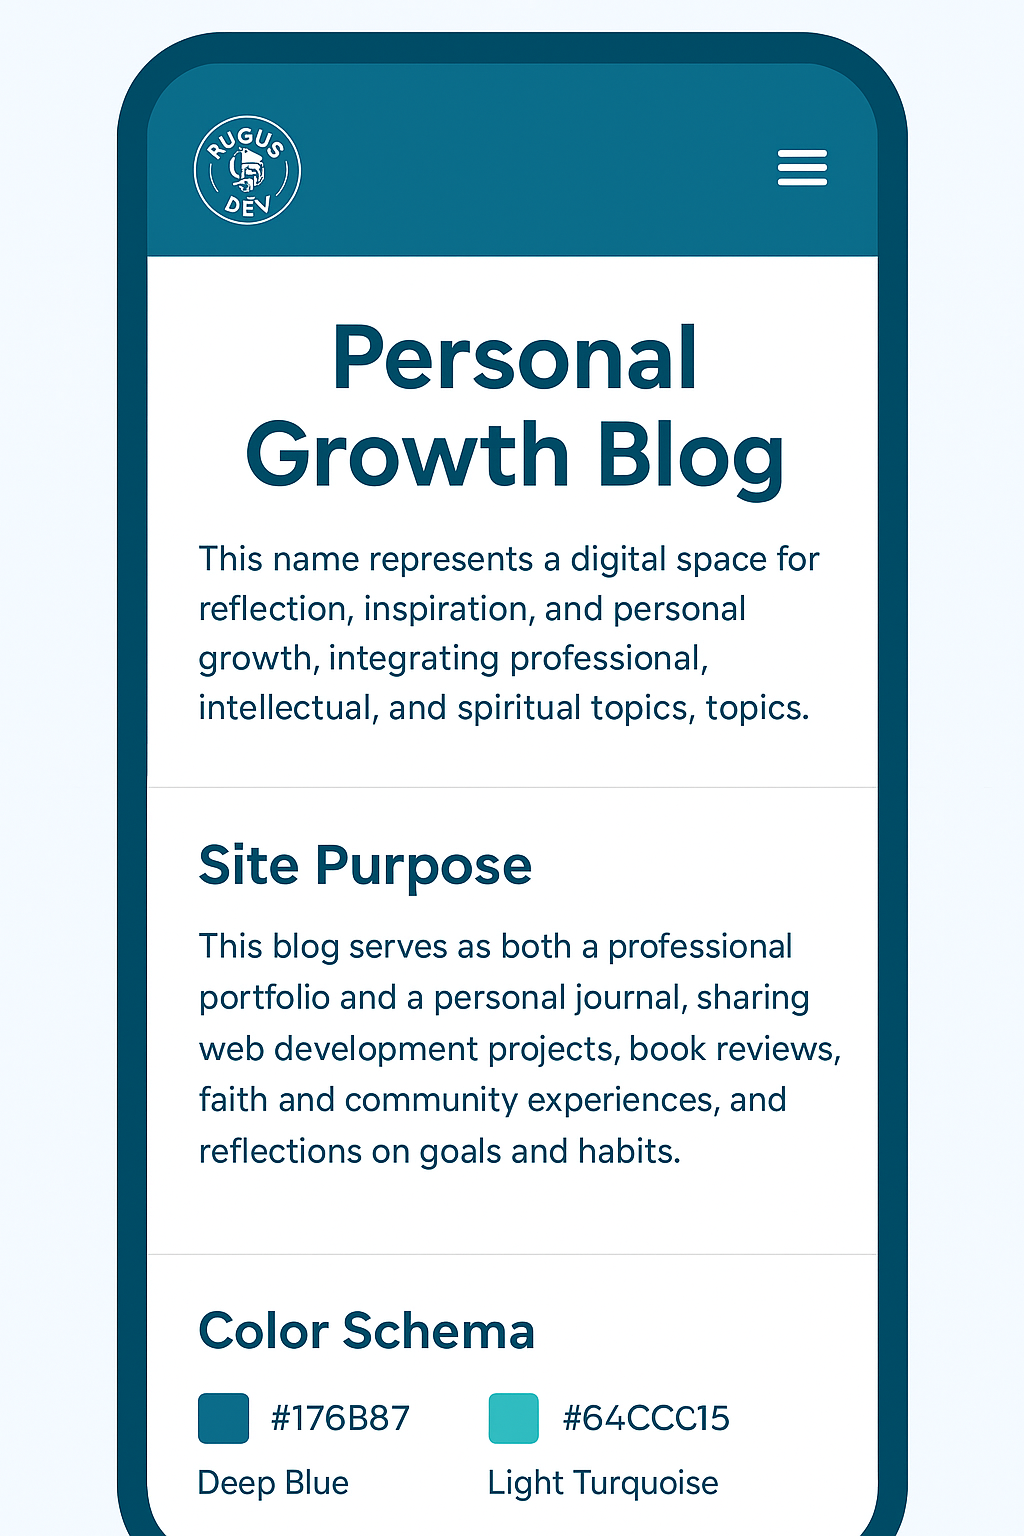
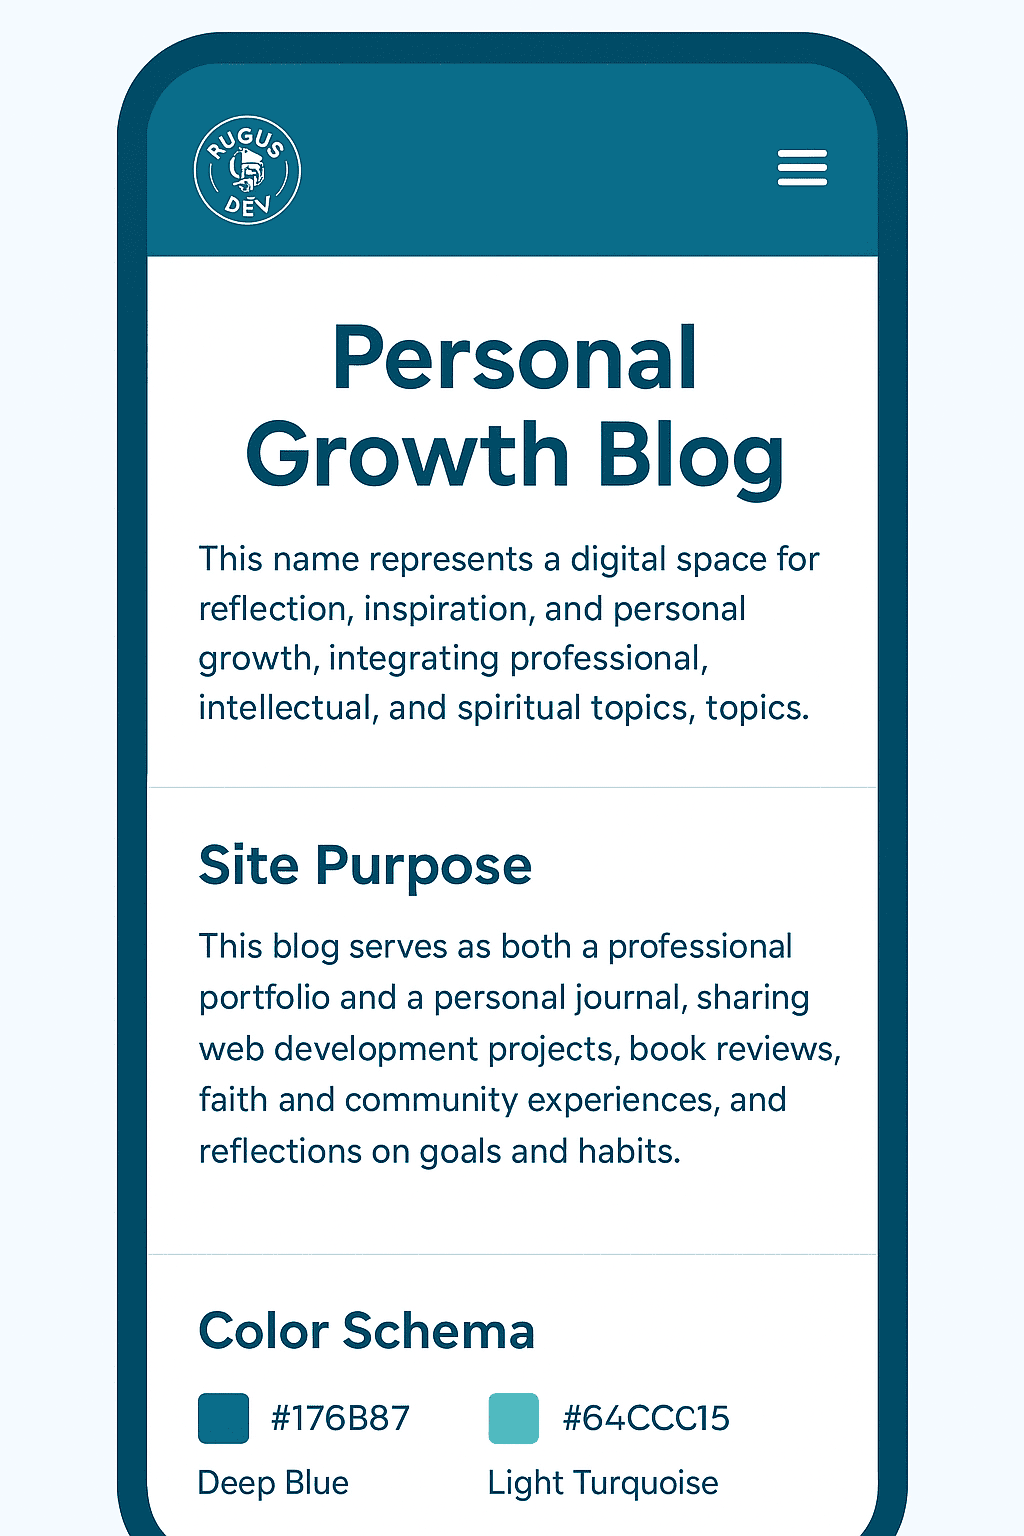
W05 siteplan: finished HTML, CSS, optimized images, wireframes, and accessibility fixes

Changed region(s): [[0.4688, 0.9062, 0.5312, 0.9375]]

diff --git a/Week05/Final project T5/siteplan.html b/Week05/Final project T5/siteplan.html
@@ -2,14 +2,14 @@
 <html lang="en">
 <head>
   <meta charset="UTF-8">
+  <meta name="description" content="Site plan for the Personal Growth Blog project, including site purpose, naming, scenarios, color scheme, typography, and wireframes.">
   <title>Site Plan – Personal Growth Blog</title>
   <link rel="stylesheet" href="siteplan.css">
 </head>
 <body>
   <header>
     <h1>Personal Growth Blog</h1>
-    <!-- Your custom logo -->
-    <img src="AugusLogo.jpg" alt="Augus Dev Logo" style="width:120px; border-radius:50%;">
+    <img src="images/AugusLogo.JPG" alt="Augus Dev Logo" style="width:120px; border-radius:50%; margin-bottom:10px;">
     <p class="site-description">
       This name represents a digital space for reflection, inspiration, and personal growth, integrating professional, intellectual, and spiritual topics.
     </p>
@@ -33,8 +33,8 @@
   <section>
     <h2>Color Schema</h2>
     <ul>
-      <li><span style="color: #176B87;">Deep Blue (#176B87)</span>: Used in headers and navigation.</li>
-      <li><span style="color: #64CCC5;">Light Turquoise (#64CCC5)</span>: Used in backgrounds and accents.</li>
+      <li><span style="color: #176B87; font-weight: bold;">Deep Blue (#176B87)</span>: Used in headers and navigation.</li>
+      <li><span class="color-accent">Light Turquoise (#64CCC5)</span>: Used in backgrounds and accents.</li>
     </ul>
   </section>
 
@@ -48,10 +48,14 @@
 
   <section>
     <h2>Wireframe</h2>
-    <h3>Mobile View</h3>
-    <img src="wireframe-mobile.png" alt="Mobile wireframe" style="max-width:300px;">
-    <h3>Desktop View</h3>
-    <img src="wireframe-desktop.png" alt="Desktop wireframe" style="max-width:500px;">
+    <div>
+      <h3>Mobile View</h3>
+      <img src="images/MobileWireframe.png" alt="Mobile wireframe preview" style="max-width:260px;">
+    </div>
+    <div>
+      <h3>Desktop View</h3>
+      <img src="images/DesktopWireframe.png" alt="Desktop wireframe preview" style="max-width:420px;">
+    </div>
   </section>
 
   <footer>

diff --git a/Week05/Final project T5/siteplan.css b/Week05/Final project T5/siteplan.css
@@ -1,4 +1,3 @@
-/* Reset some default styles */
 body, h1, h2, h3, ul, p {
   margin: 0;
   padding: 0;
@@ -20,12 +19,11 @@ header {
 }
 
 header h1 {
-  font-family: 'Montserrat', Arial, sans-serif; /* Header font */
-  color: #176B87; /* Deep Blue main color */
+  font-family: 'Montserrat', Arial, sans-serif;
+  color: #176B87;
   margin-bottom: 5px;
 }
 
-.logo,
 header img {
   width: 120px;
   border-radius: 50%;
@@ -35,11 +33,10 @@ header img {
 
 .site-description {
   font-size: 1.1em;
-  color: #176B87; /* Accent color */
+  color: #176B87;
   margin-bottom: 10px;
 }
 
-/* Section styles */
 section {
   background-color: #fff;
   border-radius: 8px;
@@ -60,14 +57,22 @@ ul {
   margin-left: 18px;
 }
 
-/* Color schema accents */
+.color-accent {
+  background-color: #64CCC5;
+  color: #176B87;
+  padding: 4px 10px;
+  border-radius: 4px;
+  font-weight: bold;
+  display: inline-block;
+}
+
 section ul span {
   font-weight: bold;
 }
 
 /* Wireframe image styles */
 section img {
-  border: 2px solid #64CCC5; /* Light Turquoise border */
+  border: 2px solid #64CCC5;
   border-radius: 8px;
   background: #eef9f7;
   margin-bottom: 10px;
@@ -91,9 +96,6 @@ footer {
     padding: 10px;
   }
   header img {
-    width: 90px;
-  }
-  .logo {
     width: 90px;
   }
 }
